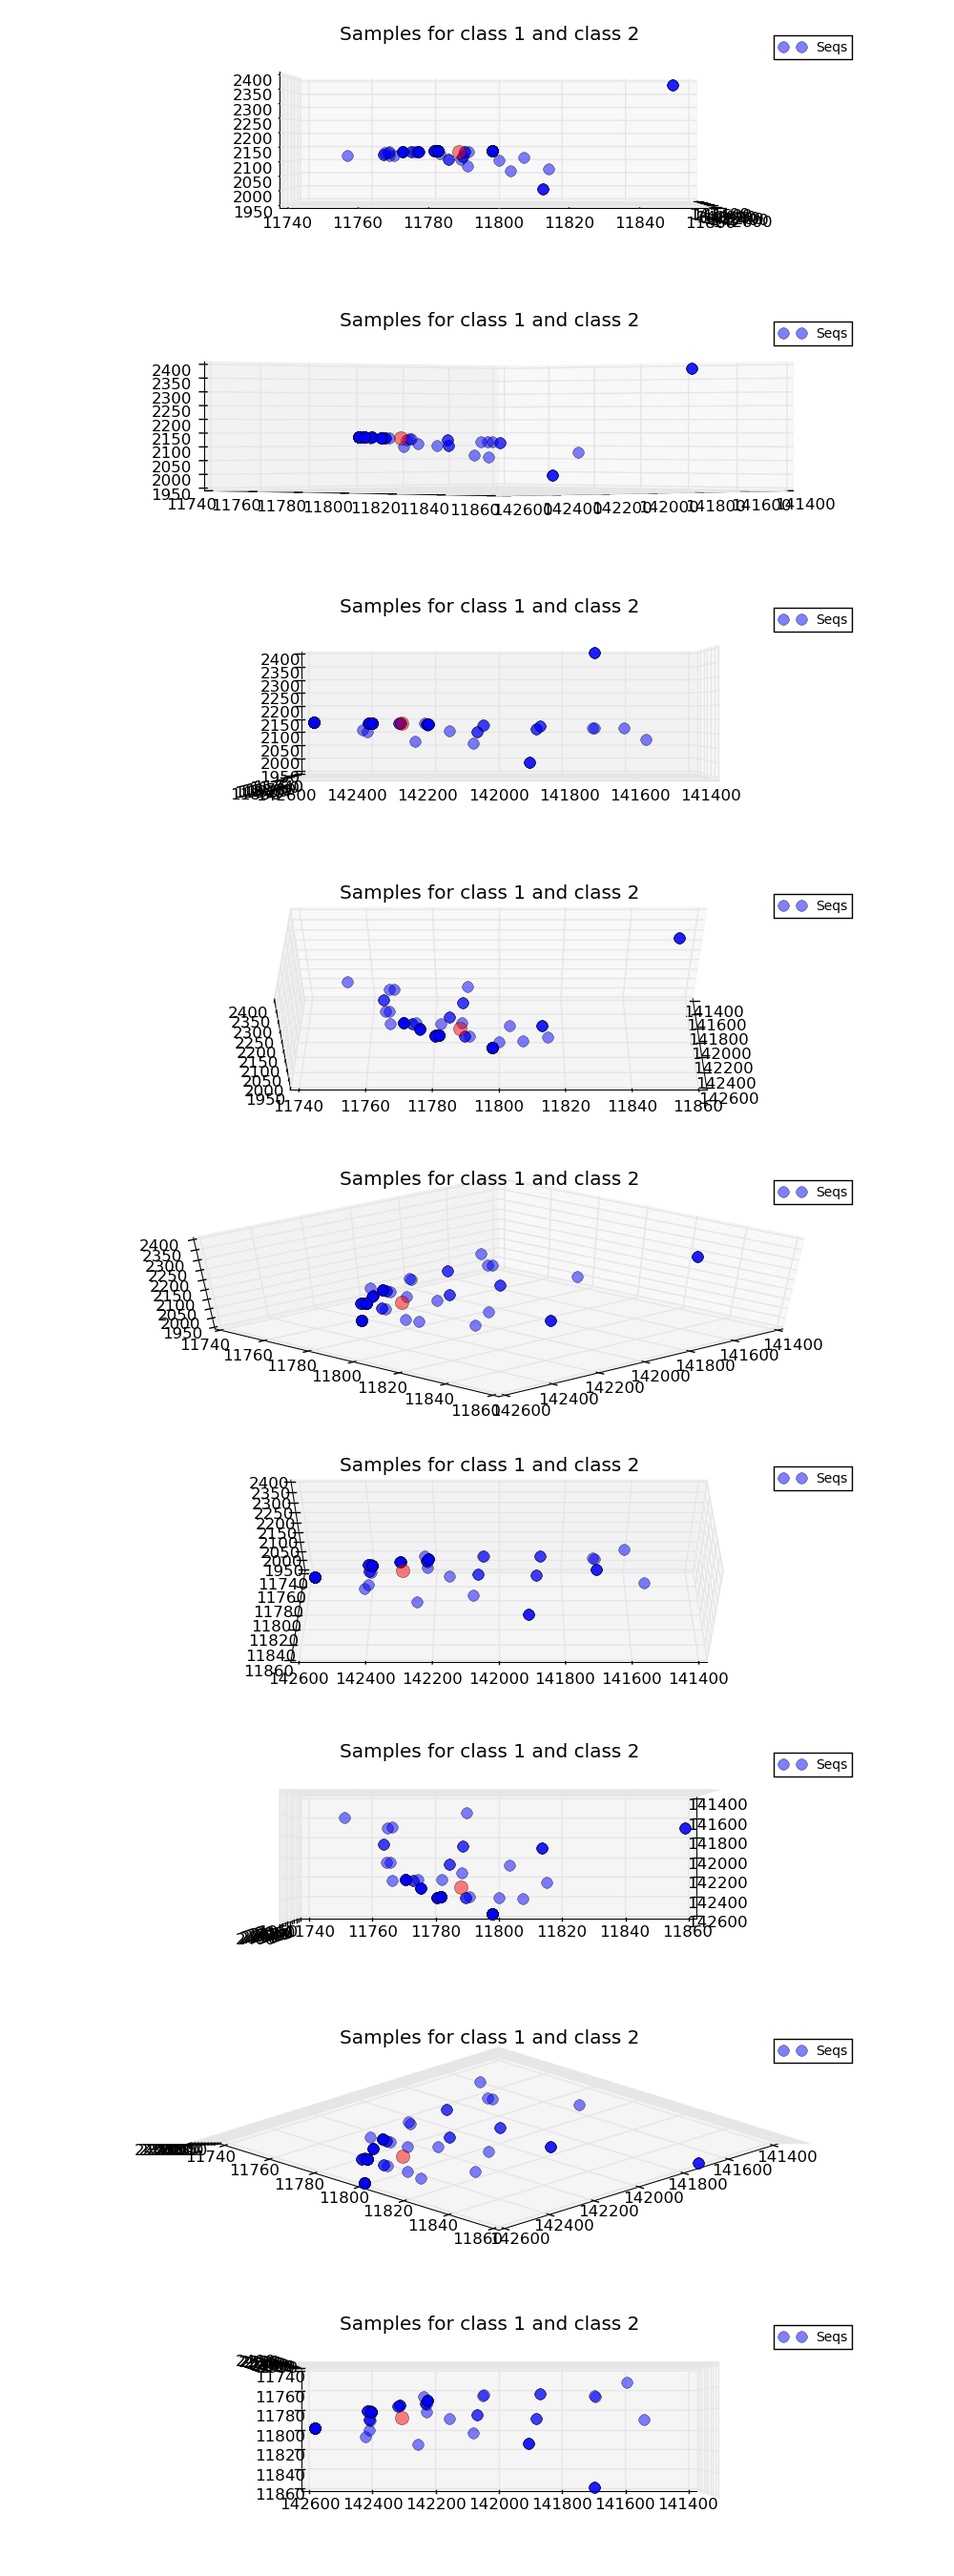
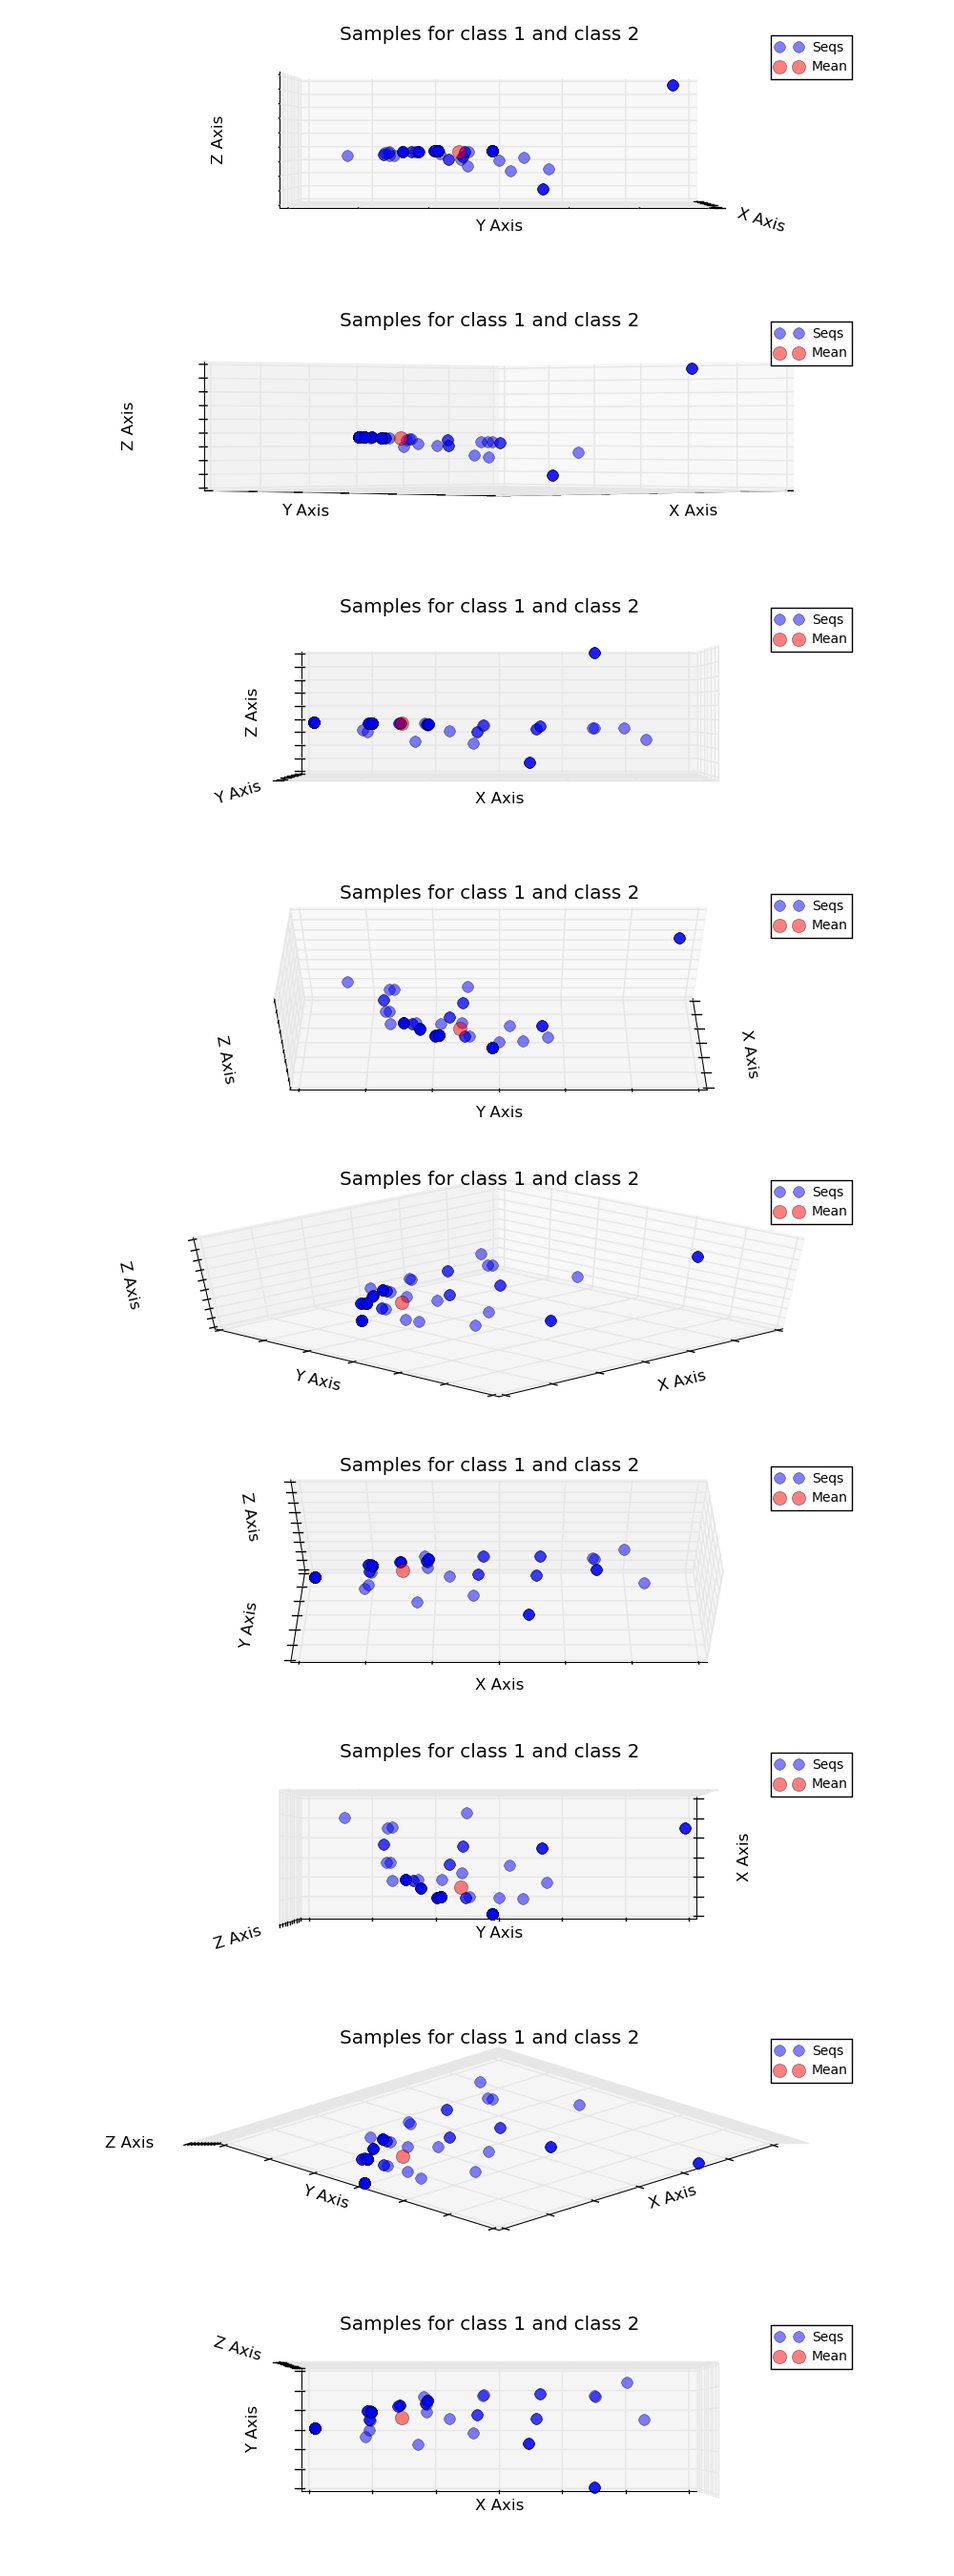
Removed x,y and z tick labels. Addex X,Y Z axis labels. Added mean legend key

diff --git a/bio_pieces/aln_pca.py b/bio_pieces/aln_pca.py
@@ -28,7 +28,6 @@ https://zulko.wordpress.com/2012/09/29/animate-your-3d-plots-with-pythons-matplo
 TODO:
     - Somehow detect different data sets(aka, each sample's data should be graphed
       as different color)
-    - Remove axis tick marks
     - Make interactive? Seems like if we can launch gtk matplotlib then it should
       just work?
 '''
@@ -217,13 +216,12 @@ def build_pca_from_fasta(fastapath, outputfile, substitution_matrix):
     fig = plt.figure(figsize=(8,8))
     ax = fig.add_subplot(111, projection='3d')
     plt.rcParams['legend.fontsize'] = 10
-
     # Plot the transformed matrix
     ax.plot(transformed[0,:], transformed[1,:], transformed[2,:],
             'o', markersize=8, color='blue', alpha=0.5, label='Seqs')
     # Plot the mean location(single dot)
     ax.plot([mean_x], [mean_y], [mean_z],
-           'o', markersize=10, color='red', alpha=0.5)
+           'o', markersize=10, color='red', alpha=0.5, label='Mean')
 
     plt.title('Samples for class 1 and class 2')
     ax.legend(loc='upper right')
@@ -258,6 +256,13 @@ def make_views(ax, angles, elevations=None, width=4, height = 3,
      
     files = []
     ax.figure.set_size_inches(width,height)
+    ax1 = ax.figure.gca()
+    ax1.axes.set_xticklabels([])
+    ax1.axes.set_yticklabels([])
+    ax1.axes.set_zticklabels([])
+    ax1.axes.set_xlabel('X Axis')
+    ax1.axes.set_ylabel('Y Axis')
+    ax1.axes.set_zlabel('Z Axis')
      
     i = 0
     for elevation in elevations:
